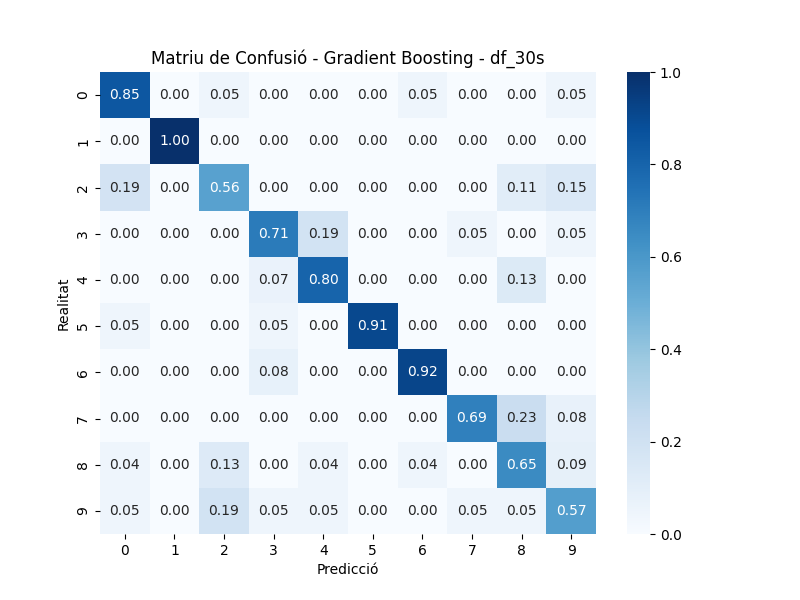
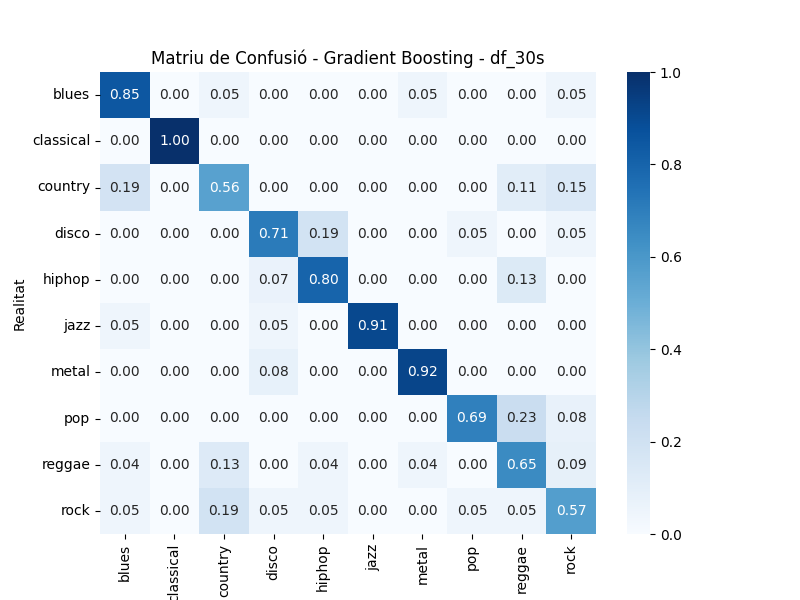
update confusion matrix

diff --git a/algorithms.py b/algorithms.py
@@ -108,18 +108,24 @@ class Models:
 
 
     ######## METRIQUES
-    def do_confusion_matrix(self, cm:object, model_name:str, dataset_name:str, dir='confusion_matrixs', show=False):
+    def do_confusion_matrix(self, cm:object, model_name:str, dataset_name:str, labels:list, dir='confusion_matrixs', show=False):
         """Visualitzar la matriu de confusió."""
         plt.figure(figsize=(8, 6))
-        sns.heatmap(cm, annot=True, fmt=".2f", cmap="Blues")
+        
+        # Definim els "eixos" amb NOM dels labels
+        if labels:
+            sns.heatmap(cm, annot=True, fmt=".2f", cmap="Blues", xticklabels=labels, yticklabels=labels)
+        else:
+            sns.heatmap(cm, annot=True, fmt=".2f", cmap="Blues")
+        
         plt.title(f"Matriu de Confusió - {model_name} - {dataset_name}")
         plt.xlabel("Predicció")
         plt.ylabel("Realitat")
 
-        #* Desar la matriu com a imatge
         # Si el directori no existeix, es crea
         if not os.path.exists(dir):
             os.makedirs(dir)
+        
         output_filename = os.path.join(dir, f"{model_name}_{dataset_name}_confusion_matrix.png")
         plt.savefig(output_filename)
         print(f"Matriu de confusió desada a {output_filename}")
@@ -127,7 +133,7 @@ class Models:
         if show:
             plt.show()
 
-    def evaluate_model(self, model_name:str, dataset_name:str):
+    def evaluate_model(self, model_name:str, dataset_name:str, labels:list):
         """Avalua un model determinat i l'afegeix a la llista per crear posteriorment el dataset"""
         if model_name not in self._prediccions:
             raise ValueError(f"El model '{model_name}' no es troba en el diccionari.")
@@ -141,7 +147,7 @@ class Models:
         cm = confusion_matrix(self._y_test, prediction, normalize='true')
 
         # Visualitzar la matriu de confusió
-        self.do_confusion_matrix(cm, model_name, dataset_name)
+        self.do_confusion_matrix(cm, model_name, dataset_name, labels)
 
         # Afegir resultats al registre
         self._metrics.append({

diff --git a/main.py b/main.py
@@ -73,20 +73,23 @@ def main():
     models3 = Models(data3.train_data, data3.train_labels, data3.test_data, data3.test_labels)
     dataset_name = 'df_3s'
     MODELS3_DICT = get_models(models3)
+    LABELS = data3.get_labels()
 
+    #* Entrenem cada model
     for model_str, model_train in MODELS3_DICT.items():
-        model_train(dataset_name)
-        models3.evaluate_model(model_str, dataset_name)
+        model_train(dataset_name) 
+        models3.evaluate_model(model_str, dataset_name, LABELS)
 
     metrics3_df = models3.create_metrics_dataframe()
     #models3.do_plot_metrics('metrics.csv')
     
+    """ NO FUNCIONA
     model_file = os.path.join(models3._cache, f"{model_str.replace(' ', '')}_{dataset_name}.pkl")
     if os.path.exists(model_file):
         with open(model_file, 'rb') as f:
             model = pickle.load(f)
         models3.generate_roc_curve(models3.generate_roc_curve(model, data3.test_data, data3.test_labels, model_str))
-
+    """
 
     models30 = Models(data30.train_data, data30.train_labels, data30.test_data, data30.test_labels)
     dataset_name = 'df_30s'
@@ -94,7 +97,7 @@ def main():
 
     for model_str, model_train in MODELS30_DICT.items():
         model_train(dataset_name)
-        models30.evaluate_model(model_str, dataset_name)
+        models30.evaluate_model(model_str, dataset_name, LABELS)
 
     metrics30_df = models30.create_metrics_dataframe()
     #models30.do_plot_metrics('metrics.csv')
